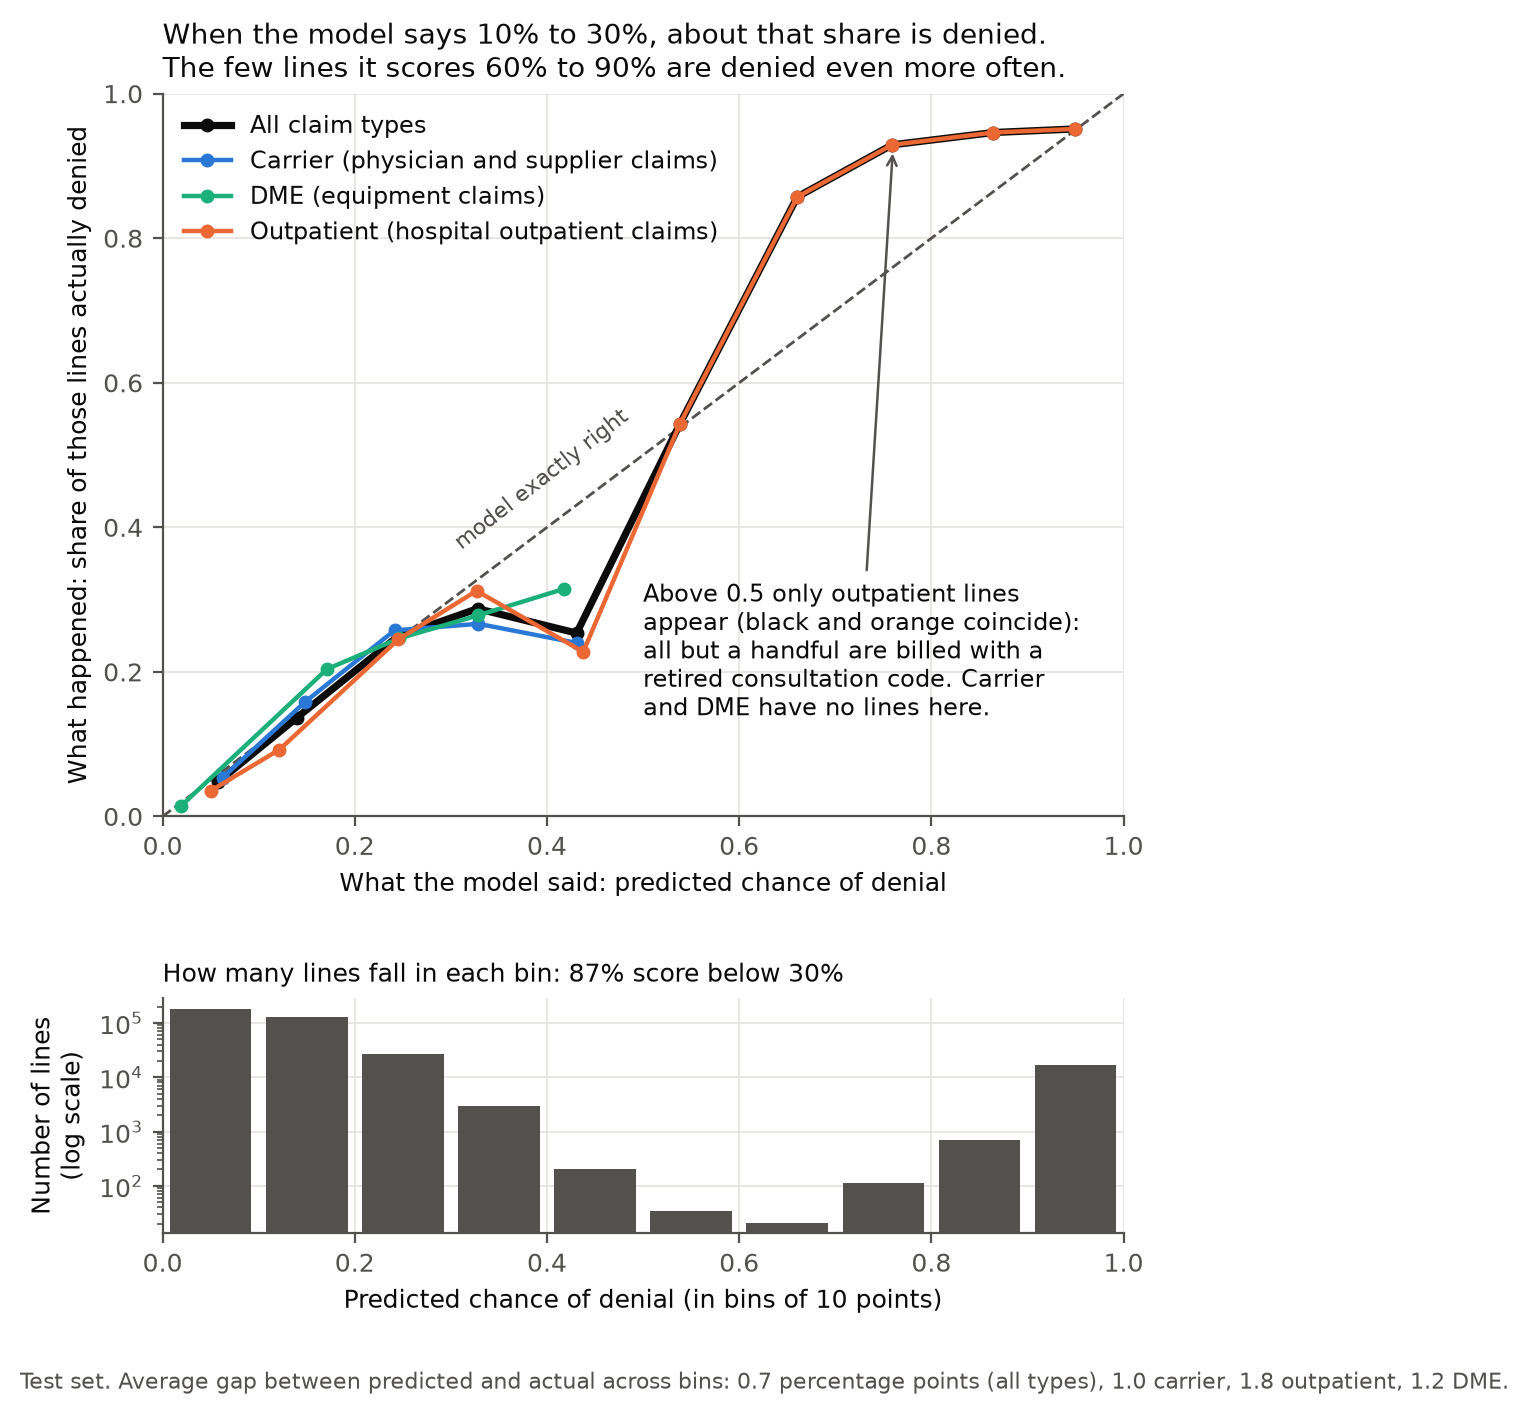
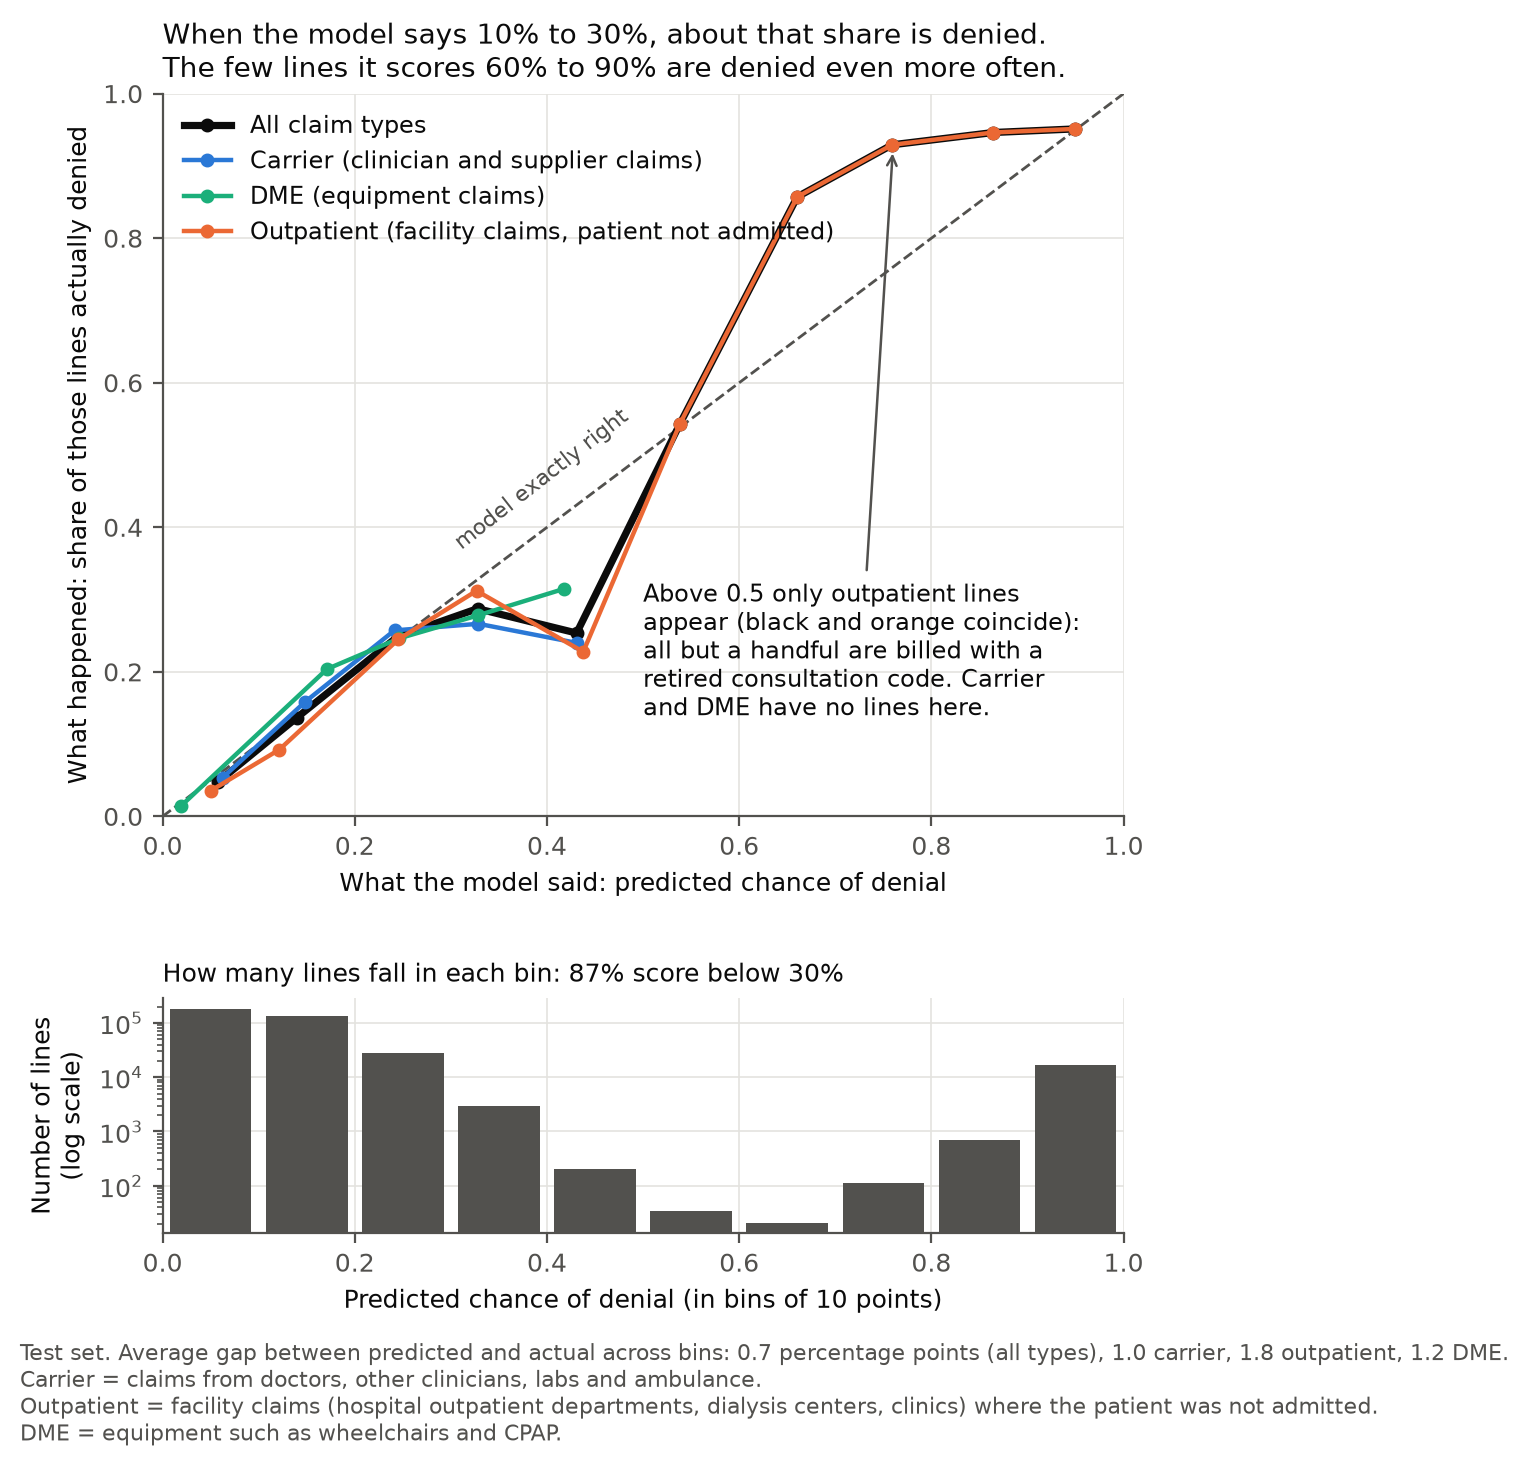
Phase 5: define claim types from CMS sources, explain the decision curve, and say whether the rule is usable
The reader asked what carrier and outpatient mean, whether net benefit is dollars, how the
decision curve works, and whether the recommended rule is usable in practice. Claim-type names in the
figures now follow the CMS file descriptions (outpatient is facility claims for patients not admitted,
not only hospital outpatient), the decision curve footnote carries a worked example computed from the
test predictions, and PHASE5.md has a reader's guide covering what goes in a figure versus the text,
the claim types, the curve's intuition, and the real-world limits of the cost rule.

Claude-Session: https://claude.ai/code/session_01K5JU8CrQRKafAkZt2gqEQu

diff --git a/scripts/make_phase5_figures.py b/scripts/make_phase5_figures.py
@@ -123,8 +123,8 @@ def fig_calibration():
     ax.plot([0, 1], [0, 1], color=MUTED, lw=1, ls="--")
     ax.text(0.30, 0.37, "model exactly right", color=MUTED, fontsize=8, rotation=38)
     # outpatient is the only type with lines scoring above 0.5, so draw overall first, outpatient last, on top
-    order = [("overall", "All claim types", INK, 2.6), ("carrier", "Carrier (physician and supplier claims)", BLUE, 1.6),
-             ("dme", "DME (equipment claims)", AQUA, 1.6), ("outpatient", "Outpatient (hospital outpatient claims)", ORANGE, 1.6)]
+    order = [("overall", "All claim types", INK, 2.6), ("carrier", "Carrier (clinician and supplier claims)", BLUE, 1.6),
+             ("dme", "DME (equipment claims)", AQUA, 1.6), ("outpatient", "Outpatient (facility claims, patient not admitted)", ORANGE, 1.6)]
     for key, label, col, lw in order:
         d = RES["scored"][key]
         cal = [b for b in d["calibration"] if b["n"] > 0]
@@ -143,8 +143,8 @@ def fig_calibration():
     ax2.set_yscale("log"); ax2.set_xlim(0, 1); ax2.set_ylabel("Number of lines\n(log scale)")
     ax2.set_xlabel("Predicted chance of denial (in bins of 10 points)")
     ax2.set_title("How many lines fall in each bin: 87% score below 30%", loc="left", fontsize=9)
-    fig.text(0.01, 0.005, "Test set. Average gap between predicted and actual across bins: 0.7 percentage points (all types), "
-             "1.0 carrier, 1.8 outpatient, 1.2 DME.", fontsize=8, color=MUTED)
+    fig.text(0.01, -0.03, "Test set. Average gap between predicted and actual across bins: 0.7 percentage points (all types), "
+             "1.0 carrier, 1.8 outpatient, 1.2 DME.\nCarrier = claims from doctors, other clinicians, labs and ambulance.\nOutpatient = facility claims (hospital outpatient departments, dialysis centers, clinics) where the patient was not admitted.\nDME = equipment such as wheelchairs and CPAP.", fontsize=8, color=MUTED)
     save(fig, "fig2_calibration.png")
 
 
@@ -196,8 +196,8 @@ def fig_cost_threshold():
 
 # ---- Figure 4: decision curve (appendix) -----------------------------------------------
 def fig_decision_curve():
-    panels = [("overall", "All claim types", INK), ("carrier", "Carrier (physician and supplier claims)", BLUE),
-              ("outpatient", "Outpatient (hospital outpatient claims)", ORANGE), ("dme", "DME (equipment claims)", AQUA)]
+    panels = [("overall", "All claim types", INK), ("carrier", "Carrier (clinician and supplier claims)", BLUE),
+              ("outpatient", "Outpatient (facility claims, patient not admitted)", ORANGE), ("dme", "DME (equipment claims)", AQUA)]
     fig, axes = plt.subplots(2, 2, figsize=(9.8, 7.0), sharex=True)
     for ax, (key, title, col) in zip(axes.ravel(), panels):
         dc = RES["scored"][key]["decision_curve"]
@@ -217,8 +217,12 @@ def fig_decision_curve():
         ax.set_ylabel("Net denials found per 100 lines")
     fig.suptitle("Appendix: decision curve. The model finds more net denials than reviewing everything,\nbut in carrier and DME the gain is gone above a cutoff of about 0.3",
                  x=0.01, ha="left", fontsize=11, y=1.0)
-    fig.text(0.01, -0.03, "Net denials found = denials caught per 100 lines, minus false alarms per 100 lines x t/(1-t). Higher t means false alarms are charged more.\n"
-             "This counts denials, not dollars; dollars are in the cost figure.", fontsize=8, color=MUTED)
+    fig.text(0.01, -0.095, "Net denials found = denials caught per 100 lines, minus false alarms per 100 lines x t/(1-t). This counts denials, not dollars.\n"
+             "Reading t: at t = 0.10 each false alarm is charged 1/9 of a catch. Example, all claim types: the model flags 49.9 of every 100 lines,\n"
+             "11.7 real denials and 38.1 false alarms, so 11.7 - 38.1/9 = 7.5. Reviewing all 100 lines gives 14.2 - 85.8/9 = 4.6. Reviewing none gives 0.\n"
+             "Carrier = claims from doctors, other clinicians, labs and ambulance.\n"
+             "Outpatient = facility claims (hospital outpatient departments, dialysis centers, clinics) where the patient was not admitted.\n"
+             "DME = equipment such as wheelchairs and CPAP.", fontsize=8, color=MUTED)
     fig.subplots_adjust(top=0.9, bottom=0.1)
     save(fig, "fig4_decision_curve.png")
 

diff --git a/docs/PHASE5.md b/docs/PHASE5.md
@@ -158,3 +158,65 @@ that carry facts:
   (9 of 364 were the model's own arithmetic, 3 of 409 were code meanings from memory, 0 after prompt v2). The right shows what the
   explainer could say, because 100% traceable is easy if it says little: fields with a meaning 68 to 178 of 180, code values
   with a meaning 0 to 56 of 74 (held-out claims, from the saved run summaries).
+
+## Reader's guide (plain-language answers for the report)
+
+### What goes in a figure and what goes in the text
+
+Decision (2026-10-01): the written report is the source, and the video script is written from the report text. Each figure must still
+stand alone when lifted out (a LinkedIn post, a slide). So a figure carries its own takeaway title, plain axis labels, a legend, and a
+short footnote that says what is plotted and on what sample, in plain words. The report text carries the reasoning, the formulas,
+the sources and the caveats. A figure never needs a spoken explanation to be read; the voiceover repeats and extends the report.
+
+### The three claim types, in plain words
+
+- **Carrier**: Medicare Part B claims from professional providers (physicians, physician assistants, nurse practitioners, clinical
+  social workers) and some organizations that bill the same way (independent clinical laboratories, ambulance providers, free-standing
+  surgery and radiology centers). The CMS documentation calls the people and businesses that are not institutions "suppliers", which
+  is why the figures say "clinician and supplier claims".
+- **Outpatient**: claims from institutions for care where the patient is not admitted as an inpatient. The CMS file covers hospital
+  outpatient departments, renal dialysis facilities, rural health clinics, federally qualified health centers, community mental
+  health centers and outpatient rehabilitation facilities. So "hospital outpatient" was too narrow: the figures now say "facility
+  claims, patient not admitted". The exact facility mix inside this synthetic file has not been checked.
+- **DME** (durable medical equipment): equipment such as wheelchairs, CPAP machines and supplies, billed by equipment suppliers.
+
+Sources: ResDAC, Original Medicare Carrier and Outpatient file descriptions (resdac.org/cms-data/files/carrier-ffs and /op-ffs);
+CMS Medicare enrollment terms (provider versus supplier). A "line" is one billed service on a claim.
+
+### Reading the decision curve (appendix figure)
+
+Reviewing a line has a price (a reviewer's time) and a prize (finding a denial). The curve asks, for a given exchange rate between
+the two, whether acting on the model beats the two lazy alternatives: review everything, or review nothing.
+
+- **t** is that exchange rate, written as a cutoff. t = 0.10 means "I would review a line if there is at least a 10% chance it is a
+  denial", which is the same as saying a false alarm costs 1/9 of what a catch gains (t / (1 - t) = 0.1 / 0.9 = 1/9). At t = 0.5 a false alarm
+  costs as much as a catch is worth. It connects to dollars through t = r / L: the review cost divided by the loss from a missed denial.
+- **Net benefit** = catches per line, minus false alarms per line times t / (1 - t). Shown per 100 lines.
+- **Worked example (test, all claim types, t = 0.10).** The model flags the lines scoring above 0.10, which is 49.9 of every 100 lines:
+  11.7 are real denials and 38.1 are false alarms. Net benefit = 11.7 - 38.1 / 9 = 7.5. Reviewing every line catches all 14.2 denials
+  but raises 85.8 false alarms: 14.2 - 85.8 / 9 = 4.6. Reviewing nothing scores 0. The model beats both.
+- This counts denials, not dollars. It is kept as an appendix figure because the dollar version is figure 3.
+
+### Is the cost rule usable in practice?
+
+The single cutoff in figure 3 is the baseline we compare against, so "not realistic" and "recommended rule" do not conflict: they are
+different rules. The recommended rule asks, for each line, whether the expected loss (chance of denial times the dollars at stake after
+recovery) is bigger than the cost of reviewing it, and it ranks lines by the surplus. That is an expected-value worklist.
+
+What carries over to a real payer:
+
+- The structure. Score every line, multiply by its dollars, subtract the cost of a review, and work the list from the top until the
+  reviewers' capacity runs out (figure 1, dollar order). Nothing in it depends on this synthetic data.
+- The inputs are observable: a calibrated probability, the dollars on the line, a review cost per case, and a recovery rate. A payer
+  would replace the hypothetical review cost and the 24% and 55% recovery rates with its own measured values, and would check the
+  calibration on its own claims before trusting the scores (here the sparse top bins ran above the diagonal).
+
+What would need to change or is not shown:
+
+- The unit. Reviews usually happen per claim, so a real version would add the expected losses of a claim's lines and compare that sum
+  with one review's cost. This project scores lines, which overstates the number of reviews.
+- The loss definition depends on the use. Here a missed denial is an overpayment that is recovered later at a cost (a post-payment
+  review). Before payment, or on the billing side, the loss is different (delay and rework rather than recovery).
+- The label is synthetic, so the dollar savings ($29.6M and $19.0M) show the method, not what a payer would save. A real deployment
+  would train on real denial or audit-finding outcomes and monitor for drift, as the claim-mix shift between validation and test shows.
+- Not modeled: appeal overturn rates, audit rules and time limits, and the provider-relations cost of audits.
